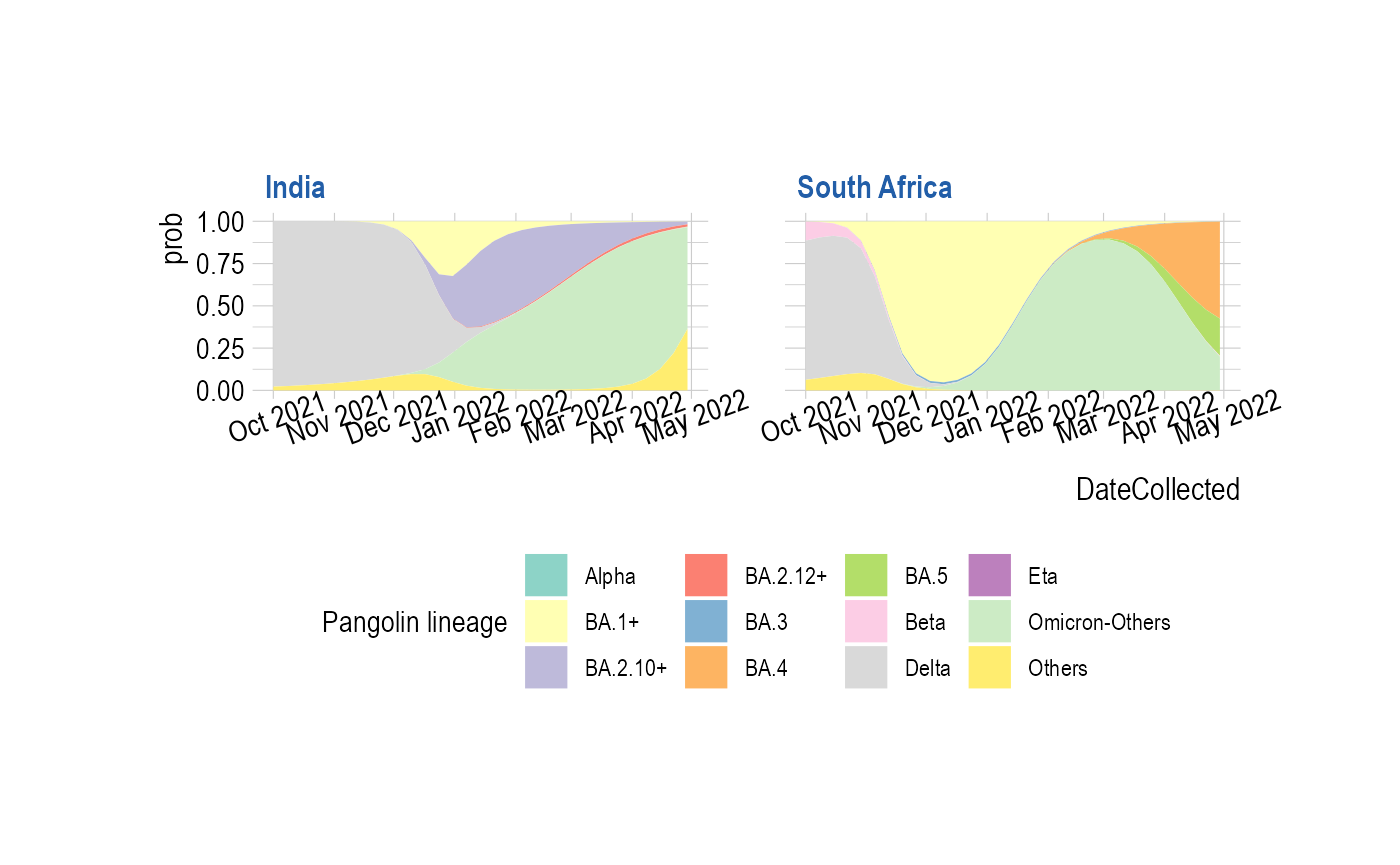
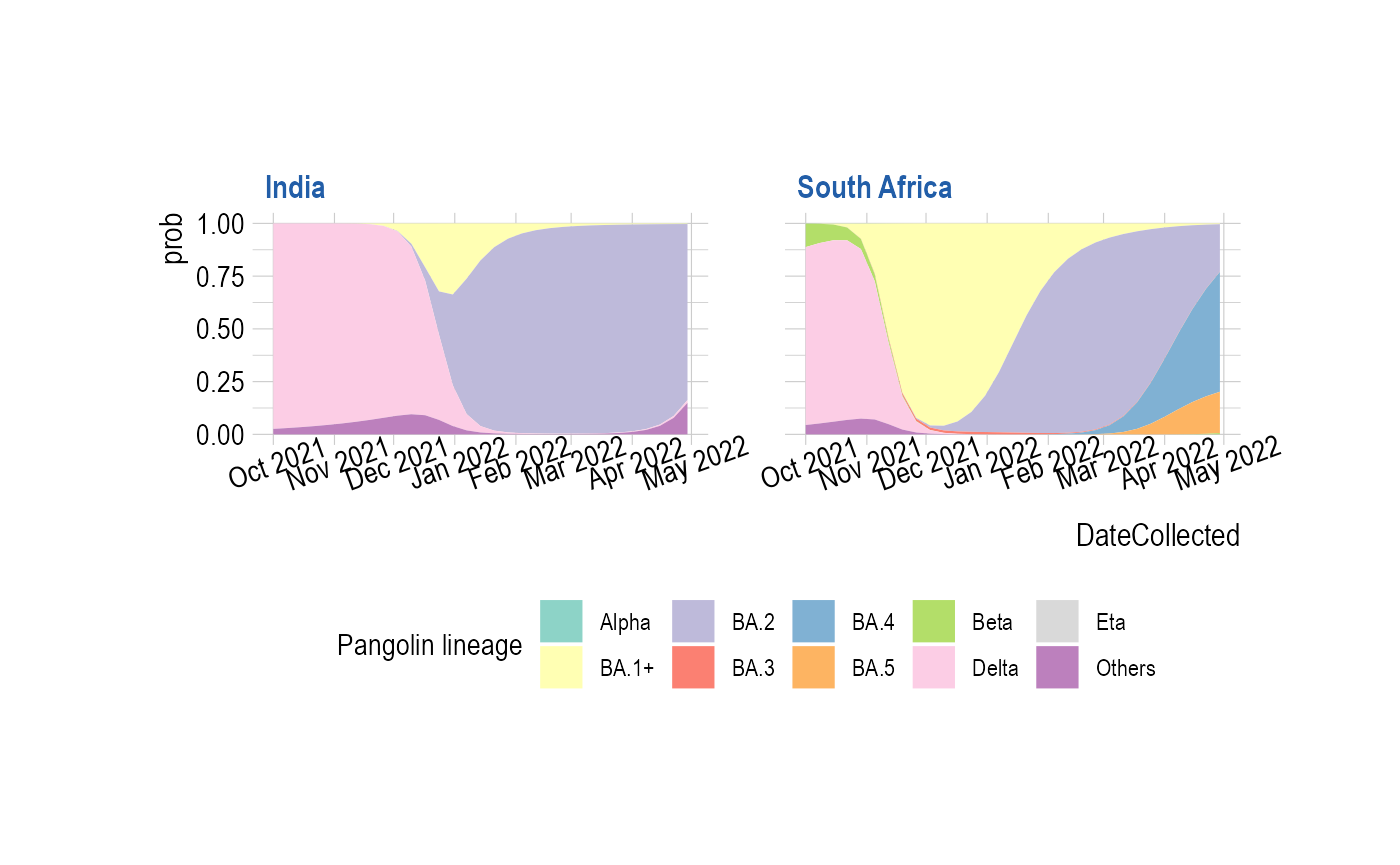
Updates

Changed region(s): [[0.1229, 0.2497, 0.9214, 0.6555], [0.215, 0.6243, 0.8293, 0.8116]]

diff --git a/docs/articles/SouthAfrica_contrast_India.html b/docs/articles/SouthAfrica_contrast_India.html
@@ -134,9 +134,10 @@
   `BA\\.2\\.10\\.*` <span class="op">=</span> <span class="st">"BA.2.10+"</span>,
   `BA\\.2\\.12` <span class="op">=</span> <span class="st">"BA.2.12+"</span>,
   `BA\\.2\\.12\\.*` <span class="op">=</span> <span class="st">"BA.2.12+"</span>,
-  `BA.3` <span class="op">=</span> <span class="st">"BA.3"</span>,
-  `BA.4` <span class="op">=</span> <span class="st">"BA.4"</span>,
-  `BA.5` <span class="op">=</span> <span class="st">"BA.5"</span>
+  `BA\\.2` <span class="op">=</span> <span class="st">"BA.2"</span>,
+  `BA\\.3` <span class="op">=</span> <span class="st">"BA.3"</span>,
+  `BA\\.4` <span class="op">=</span> <span class="st">"BA.4"</span>,
+  `BA\\.5` <span class="op">=</span> <span class="st">"BA.5"</span>
 <span class="op">)</span>
 
 <span class="va">month_prevalence</span> <span class="op">&lt;-</span> <span class="fu"><a href="../reference/CollapseLineageToVOCs.html">CollapseLineageToVOCs</a></span><span class="op">(</span>
@@ -219,35 +220,40 @@
 
 
 <span class="va">fit</span> <span class="op">&lt;-</span> <span class="fu">FitMultinomStatewiseDaily</span><span class="op">(</span><span class="va">gisaid_sel_dateweek</span><span class="op">)</span></code></pre></div>
-<pre><code><span class="co">## # weights:  60 (44 variable)</span>
-<span class="co">## initial  value 231083.893897 </span>
-<span class="co">## iter  10 value 101001.843684</span>
-<span class="co">## iter  20 value 88709.678253</span>
-<span class="co">## iter  30 value 81986.518888</span>
-<span class="co">## iter  40 value 79042.545323</span>
-<span class="co">## iter  50 value 78786.783079</span>
-<span class="co">## iter  60 value 78769.114336</span>
-<span class="co">## iter  70 value 78756.214303</span>
-<span class="co">## iter  80 value 78751.206548</span>
-<span class="co">## iter  90 value 78744.938385</span>
-<span class="co">## final  value 78744.935434 </span>
+<pre><code><span class="co">## # weights:  50 (36 variable)</span>
+<span class="co">## initial  value 214128.900723 </span>
+<span class="co">## iter  10 value 69938.079043</span>
+<span class="co">## iter  20 value 64981.706906</span>
+<span class="co">## iter  30 value 55315.672175</span>
+<span class="co">## iter  40 value 50906.178159</span>
+<span class="co">## iter  50 value 50600.201235</span>
+<span class="co">## iter  60 value 50536.474185</span>
+<span class="co">## iter  70 value 50488.625730</span>
+<span class="co">## iter  80 value 50484.768000</span>
+<span class="co">## iter  90 value 50478.238814</span>
+<span class="co">## iter 100 value 50468.745206</span>
+<span class="co">## iter 110 value 50464.790051</span>
+<span class="co">## iter 120 value 50461.351502</span>
+<span class="co">## iter 130 value 50460.170809</span>
+<span class="co">## iter 140 value 50458.685057</span>
+<span class="co">## final  value 50458.516635 </span>
 <span class="co">## converged</span></code></pre>
 <div class="sourceCode" id="cb5"><pre class="downlit sourceCode r">
 <code class="sourceCode R"><span class="fu"><a href="https://rdrr.io/r/utils/head.html" class="external-link">head</a></span><span class="op">(</span><span class="va">fit</span><span class="op">)</span></code></pre></div>
 <pre><code><span class="co">##   lineage_collapsed DateCollectedNumeric State         prob           SE df</span>
-<span class="co">## 1             Alpha                18901 India 8.304090e-05 8.798411e-05 NA</span>
-<span class="co">## 2             BA.1+                18901 India 1.584942e-06 3.095676e-07 NA</span>
-<span class="co">## 3          BA.2.10+                18901 India 8.030842e-12 2.290926e-12 NA</span>
-<span class="co">## 4          BA.2.12+                18901 India 3.787393e-13 4.246828e-13 NA</span>
-<span class="co">## 5              BA.3                18901 India 4.962493e-09 3.662477e-09 NA</span>
-<span class="co">## 6              BA.4                18901 India 8.890196e-25 5.362719e-24 NA</span>
+<span class="co">## 1             Alpha                18901 India 1.275570e-04 1.241764e-04 NA</span>
+<span class="co">## 2             BA.1+                18901 India 1.828179e-07 3.943878e-08 NA</span>
+<span class="co">## 3              BA.2                18901 India 2.610298e-12 6.890534e-13 NA</span>
+<span class="co">## 4              BA.3                18901 India 4.382764e-10 3.426940e-10 NA</span>
+<span class="co">## 5              BA.4                18901 India 3.780180e-46 1.603432e-45 NA</span>
+<span class="co">## 6              BA.5                18901 India 9.932879e-55 9.449793e-54 NA</span>
 <span class="co">##       asymp.LCL    asymp.UCL DateCollected</span>
-<span class="co">## 1 -8.940479e-05 2.554866e-04    2021-10-01</span>
-<span class="co">## 2  9.782007e-07 2.191683e-06    2021-10-01</span>
-<span class="co">## 3  3.540710e-12 1.252097e-11    2021-10-01</span>
-<span class="co">## 4 -4.536236e-13 1.211102e-12    2021-10-01</span>
-<span class="co">## 5 -2.215830e-09 1.214082e-08    2021-10-01</span>
-<span class="co">## 6 -9.621716e-24 1.139976e-23    2021-10-01</span></code></pre>
+<span class="co">## 1 -1.158242e-04 3.709381e-04    2021-10-01</span>
+<span class="co">## 2  1.055193e-07 2.601165e-07    2021-10-01</span>
+<span class="co">## 3  1.259778e-12 3.960818e-12    2021-10-01</span>
+<span class="co">## 4 -2.333916e-10 1.109944e-09    2021-10-01</span>
+<span class="co">## 5 -2.764650e-45 3.520686e-45    2021-10-01</span>
+<span class="co">## 6 -1.752797e-53 1.951454e-53    2021-10-01</span></code></pre>
 <div class="sourceCode" id="cb7"><pre class="downlit sourceCode r">
 <code class="sourceCode R"><span class="va">muller</span> <span class="op">&lt;-</span> <span class="fu">PlotMullerDailyPrevalence</span><span class="op">(</span><span class="va">fit</span><span class="op">)</span>
 <span class="va">muller</span></code></pre></div>
@@ -286,35 +292,31 @@
 <span class="va">cases_india</span> <span class="op">&lt;-</span> <span class="va">confirmed_subset_dateweekwise_long_india</span> <span class="op"><a href="https://magrittr.tidyverse.org/reference/pipe.html" class="external-link">%&gt;%</a></span> <span class="fu"><a href="https://dplyr.tidyverse.org/reference/filter.html" class="external-link">filter</a></span><span class="op">(</span><span class="va">WeekYearCollected</span> <span class="op">&gt;=</span> <span class="fu">tsibble</span><span class="fu">::</span><span class="fu"><a href="https://tsibble.tidyverts.org/reference/year-week.html" class="external-link">yearweek</a></span><span class="op">(</span><span class="st">"2021 W44"</span><span class="op">)</span><span class="op">)</span></code></pre></div>
 <div class="sourceCode" id="cb9"><pre class="downlit sourceCode r">
 <code class="sourceCode R"><span class="va">preds_southafrica</span> <span class="op">&lt;-</span> <span class="fu">FitMultinomWeekly</span><span class="op">(</span><span class="va">gisaid_southafrica_weekwise</span>, <span class="va">cases_southafrica</span><span class="op">)</span></code></pre></div>
-<pre><code><span class="co">## # weights:  40 (27 variable)</span>
-<span class="co">## initial  value 32712.826416 </span>
-<span class="co">## iter  10 value 11338.971169</span>
-<span class="co">## iter  20 value 8517.134613</span>
-<span class="co">## iter  30 value 8038.636096</span>
-<span class="co">## iter  40 value 8005.311868</span>
-<span class="co">## iter  50 value 7996.475423</span>
-<span class="co">## iter  60 value 7992.736883</span>
-<span class="co">## iter  70 value 7991.977896</span>
-<span class="co">## iter  80 value 7987.876618</span>
-<span class="co">## iter  90 value 7986.806816</span>
-<span class="co">## iter 100 value 7986.470931</span>
-<span class="co">## iter 110 value 7986.421854</span>
-<span class="co">## final  value 7986.407852 </span>
+<pre><code><span class="co">## # weights:  36 (24 variable)</span>
+<span class="co">## initial  value 31215.969570 </span>
+<span class="co">## iter  10 value 10230.561697</span>
+<span class="co">## iter  20 value 7947.460957</span>
+<span class="co">## iter  30 value 7637.420975</span>
+<span class="co">## iter  40 value 7609.514567</span>
+<span class="co">## iter  50 value 7600.170986</span>
+<span class="co">## iter  60 value 7597.589775</span>
+<span class="co">## iter  70 value 7594.124570</span>
+<span class="co">## iter  80 value 7589.539751</span>
+<span class="co">## iter  90 value 7588.094449</span>
+<span class="co">## final  value 7588.069152 </span>
 <span class="co">## converged</span></code></pre>
 <div class="sourceCode" id="cb11"><pre class="downlit sourceCode r">
 <code class="sourceCode R"><span class="va">preds_india</span> <span class="op">&lt;-</span> <span class="fu">FitMultinomWeekly</span><span class="op">(</span><span class="va">gisaid_india_weekwise</span>, <span class="va">cases_india</span><span class="op">)</span></code></pre></div>
-<pre><code><span class="co">## # weights:  36 (24 variable)</span>
-<span class="co">## initial  value 173114.929999 </span>
-<span class="co">## iter  10 value 80038.254953</span>
-<span class="co">## iter  20 value 74003.668209</span>
-<span class="co">## iter  30 value 71054.023744</span>
-<span class="co">## iter  40 value 70791.329705</span>
-<span class="co">## iter  50 value 70757.654978</span>
-<span class="co">## iter  60 value 70749.947512</span>
-<span class="co">## iter  70 value 70730.098908</span>
-<span class="co">## iter  80 value 70725.099128</span>
-<span class="co">## iter  90 value 70724.551838</span>
-<span class="co">## final  value 70724.036579 </span>
+<pre><code><span class="co">## # weights:  28 (18 variable)</span>
+<span class="co">## initial  value 153314.368824 </span>
+<span class="co">## iter  10 value 69984.699848</span>
+<span class="co">## iter  20 value 45191.396018</span>
+<span class="co">## iter  30 value 43286.884827</span>
+<span class="co">## iter  40 value 43020.186255</span>
+<span class="co">## iter  50 value 42957.739457</span>
+<span class="co">## iter  60 value 42945.462902</span>
+<span class="co">## iter  70 value 42944.378479</span>
+<span class="co">## final  value 42944.050136 </span>
 <span class="co">## converged</span></code></pre>
 <div class="sourceCode" id="cb13"><pre class="downlit sourceCode r">
 <code class="sourceCode R"><span class="va">sa_anim</span> <span class="op">&lt;-</span> <span class="fu">PlotVariantPrevalenceAnimated</span><span class="op">(</span><span class="va">preds_southafrica</span>, title <span class="op">=</span> <span class="st">"Estimated cases (weekly average) in South Africa by variant"</span>, caption <span class="op">=</span> <span class="st">"**Source: gisaid.org and covid19datahub.io&lt;br&gt;**"</span>, colors <span class="op">=</span> <span class="va">colors_to_use</span><span class="op">)</span>

diff --git a/docs/index.html b/docs/index.html
@@ -124,7 +124,7 @@
 <li><a href="articles/VariantAnimation-USA.html">USA</a></li>
 </ul>
 </li>
-<li>Compare prevalence between countries: <a href="articles/Compare-SouthAfrica-India.html">India and South Africa</a>
+<li>Compare prevalence between countries: <a href="articles/SouthAfrica_contrast_India.html">India and South Africa</a>
 </li>
 </ul>
 </div>

diff --git a/index.md b/index.md
@@ -23,6 +23,6 @@ Epicovr currently supports the following features:
     - [United Kingdom](articles/VariantAnimation-UK.html)
     - [USA](articles/VariantAnimation-USA.html)
     
-* Compare prevalence between countries: [India and South Africa](articles/Compare-SouthAfrica-India.html)
+* Compare prevalence between countries: [India and South Africa](articles/SouthAfrica_contrast_India.html)
 
 
